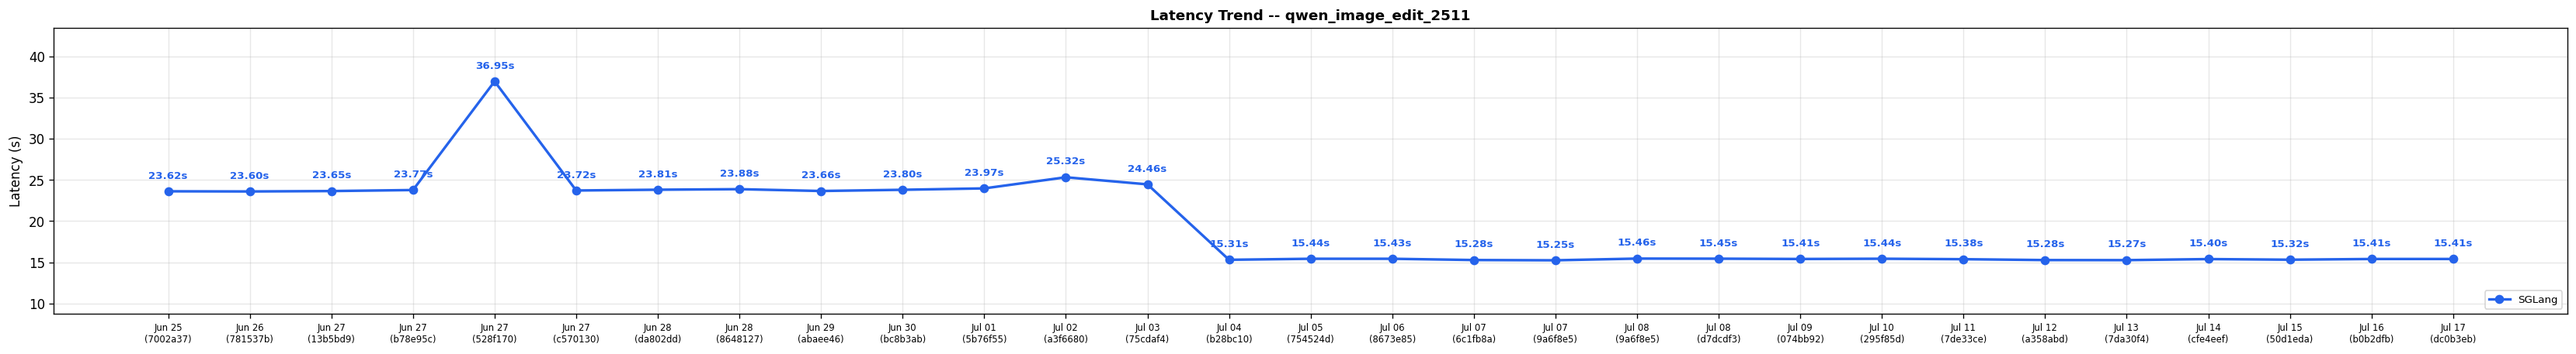
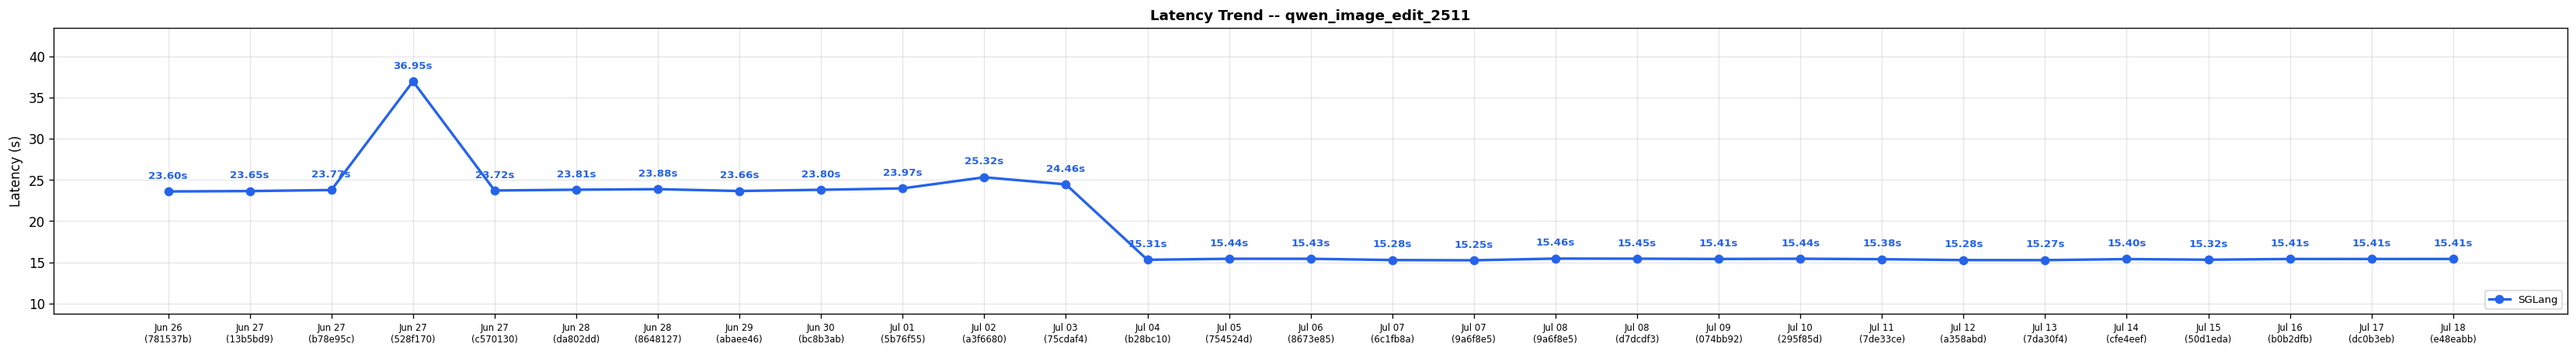
Diffusion comparison results for run 29623606969 (#720)

diff --git a/diffusion-comparisons/dashboard.md b/diffusion-comparisons/dashboard.md
@@ -1,22 +1,29 @@
 # SGLang-Diffusion Nightly Performance Dashboard
 
-*Generated: Jul 17 | Commit: `dc0b3eb`*
+*Generated: Jul 18 | Commit: `e48eabb`*
+
+> [!WARNING]
+> **Performance Regression Detected**
+>
+> - **qwen_image_2512_t2i_1024** (sglang): 9.02s -> 10.86s (+20.4%)
+> - **ltx2.3_twostage_ti2v_2gpus** (sglang): 13.05s -> 16.08s (+23.2%)
+
 
 ## SGLang-Diffusion Performance
 
 | Model | Risk | sglang (s) |
 |-------|------|---------|
-| FLUX.1-dev | ✅ | **4.85** |
-| FLUX.2-dev | ✅ | **14.48** |
-| Qwen-Image-2512 | ✅ | **9.02** |
+| FLUX.1-dev | ✅ | **4.86** |
+| FLUX.2-dev | ✅ | **14.41** |
+| Qwen-Image-2512 | ⚠ | **10.86** |
 | Qwen-Image-Edit-2511 | ✅ | **15.41** |
 | Z-Image-Turbo | ✅ | **0.83** |
-| Wan2.2-T2V-A14B-Diffusers | ✅ | **210.69** |
-| Wan2.2-TI2V-5B-Diffusers | ✅ | **65.20** |
-| LTX-2.3 | ✅ | **13.05** |
-| ideogram-4-fp8 | ✅ | **5.31** |
-| Cosmos3-Super | ✅ | **115.32** |
-| Wan2.2-I2V-A14B-Diffusers | ✅ | **204.58** |
+| Wan2.2-T2V-A14B-Diffusers | ✅ | **210.72** |
+| Wan2.2-TI2V-5B-Diffusers | ✅ | **65.23** |
+| LTX-2.3 | ⚠ | **16.08** |
+| ideogram-4-fp8 | ❌ | N/A |
+| Cosmos3-Super | ✅ | **115.29** |
+| Wan2.2-I2V-A14B-Diffusers | ✅ | **203.68** |
 
 ### Latency Trend: flux1_dev_t2i_1024
 
@@ -77,6 +84,7 @@
 
 | Date | Commit | flux1_dev_t2i_1024 (s) | flux2_dev_t2i_1024 (s) | qwen_image_2512_t2i_1024 (s) | qwen_image_edit_2511 (s) | zimage_turbo_t2i_1024 (s) | wan22_t2v_a14b_720p (s) | wan22_ti2v_5b_720p (s) | ltx2.3_twostage_ti2v_2gpus (s) | ideogram4_fp8_t2i_2gpu (s) | cosmos3_super_t2v_2gpu (s) | wan22_i2v_a14b_720p (s) | Trend |
 |------|--------|---------|---------|---------|---------|---------|---------|---------|---------|---------|---------|---------|-------|
+| Jul 18 | `e48eabb` | 4.86 | 14.41 | 10.86 | 15.41 | 0.83 | 210.72 | 65.23 | 16.08 | N/A | 115.29 | 203.68 | :left_right_arrow:  :left_right_arrow:  :arrow_up:  :left_right_arrow:  :left_right_arrow:  :left_right_arrow:  :left_right_arrow:  :arrow_up:   :left_right_arrow:  :left_right_arrow: |
 | Jul 17 | `dc0b3eb` | 4.85 | 14.48 | 9.02 | 15.41 | 0.83 | 210.69 | 65.20 | 13.05 | 5.31 | 115.32 | 204.58 | :left_right_arrow:  :left_right_arrow:  :arrow_down:  :left_right_arrow:  :left_right_arrow:  :left_right_arrow:  :left_right_arrow:  :arrow_down:  :left_right_arrow:  :left_right_arrow:  :left_right_arrow: |
 | Jul 16 | `b0b2dfb` | 4.87 | 14.41 | 10.80 | 15.41 | 0.83 | 210.62 | 65.24 | 16.06 | 5.35 | 115.35 | 204.68 | :left_right_arrow:  :left_right_arrow:  :arrow_up:  :left_right_arrow:  :left_right_arrow:  :left_right_arrow:  :left_right_arrow:  :arrow_up:  :left_right_arrow:  :left_right_arrow:  :left_right_arrow: |
 | Jul 15 | `50d1eda` | 4.83 | 14.32 | 8.82 | 15.32 | 0.82 | 209.74 | 64.24 | 13.06 | 5.44 | 114.33 | 203.70 | :left_right_arrow:  :left_right_arrow:  :arrow_down:  :left_right_arrow:  :arrow_down:  :left_right_arrow:  :left_right_arrow:  :arrow_down:  :left_right_arrow:  :left_right_arrow:  :left_right_arrow: |
@@ -105,8 +113,16 @@
 | Jun 27 | `b78e95c` | 4.68 | 14.31 | 12.81 | 23.77 | 0.65 | 209.17 | 65.22 | 16.06 | 5.19 | 113.80 | 204.59 |      :left_right_arrow:  :left_right_arrow:  :arrow_up:   :left_right_arrow:  :left_right_arrow: |
 | Jun 27 | `a526ca2` | N/A | N/A | N/A | N/A | N/A | 209.33 | 65.19 | 15.05 | N/A | 113.74 | 204.61 |      :left_right_arrow:  :left_right_arrow:  :left_right_arrow:    |
 | Jun 27 | `13b5bd9` | 4.68 | 14.31 | 12.79 | 23.65 | 0.65 | 209.32 | 64.20 | 15.05 | N/A | N/A | N/A | :left_right_arrow:  :arrow_down:  :left_right_arrow:  :left_right_arrow:  :arrow_down:  :left_right_arrow:  :left_right_arrow:  :arrow_up:    |
-| Jun 26 | `781537b` | 4.63 | 15.76 | 12.69 | 23.60 | 0.82 | 208.96 | 64.24 | 14.05 | N/A | N/A | 205.62 | :left_right_arrow:  :arrow_up:  :left_right_arrow:  :left_right_arrow:  :arrow_up:  :left_right_arrow:  :left_right_arrow:  :arrow_down:    :left_right_arrow: |
-| Jun 25 | `7002a37` | 4.68 | 14.32 | 12.75 | 23.62 | 0.66 | 209.34 | 64.22 | 15.06 | N/A | N/A | 204.64 | -- |
+| Jun 26 | `781537b` | 4.63 | 15.76 | 12.69 | 23.60 | 0.82 | 208.96 | 64.24 | 14.05 | N/A | N/A | 205.62 | -- |
+
+> [!CAUTION]
+> **Action Required — Performance Alert**
+>
+> The following cases need attention:
+> - qwen_image_2512_t2i_1024: SGLang regression +13.8% vs 3-run avg (10.86s vs 9.54s)
+> - ltx2.3_twostage_ti2v_2gpus: SGLang regression +14.4% vs 3-run avg (16.08s vs 14.06s)
+> - ideogram4_fp8_t2i_2gpu: SGLang latency is N/A (broken)
+
 
 ---
 *Generated by `generate_diffusion_dashboard.py` in SGLang nightly CI.*
